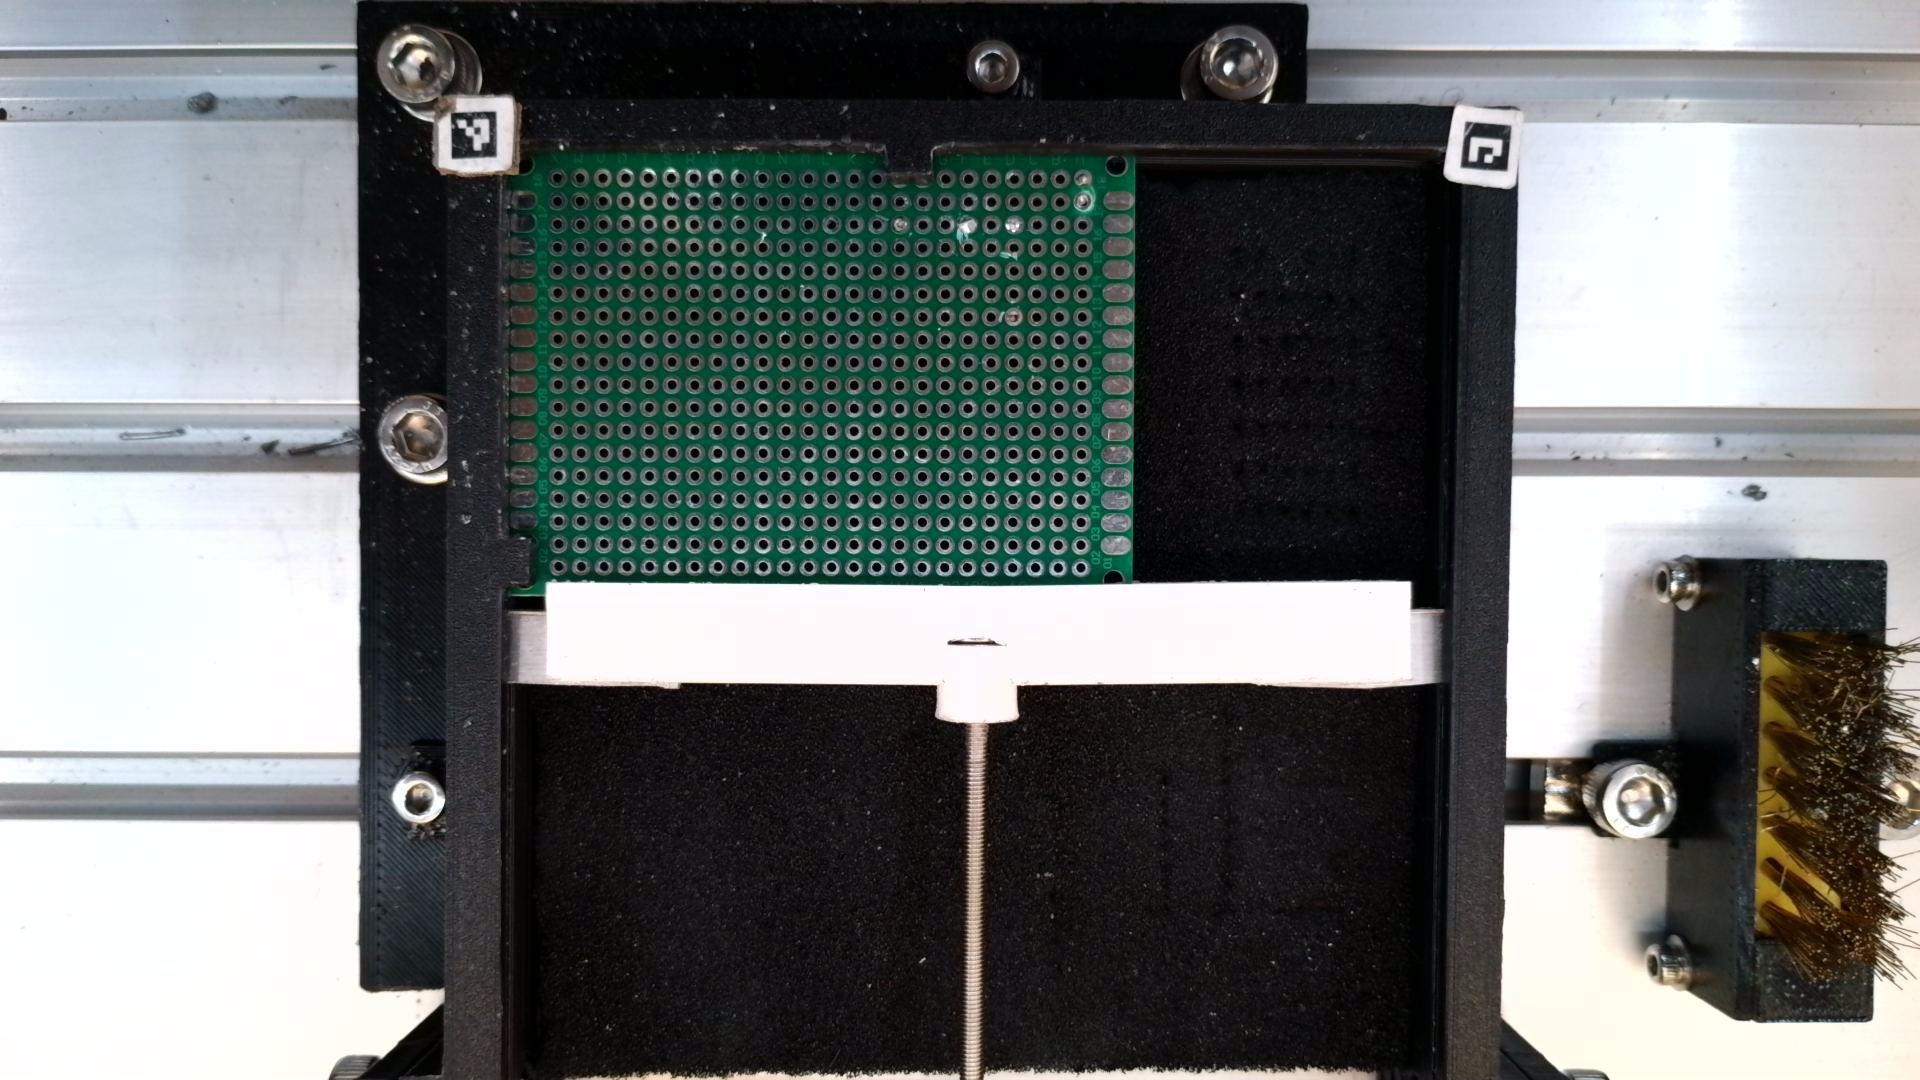
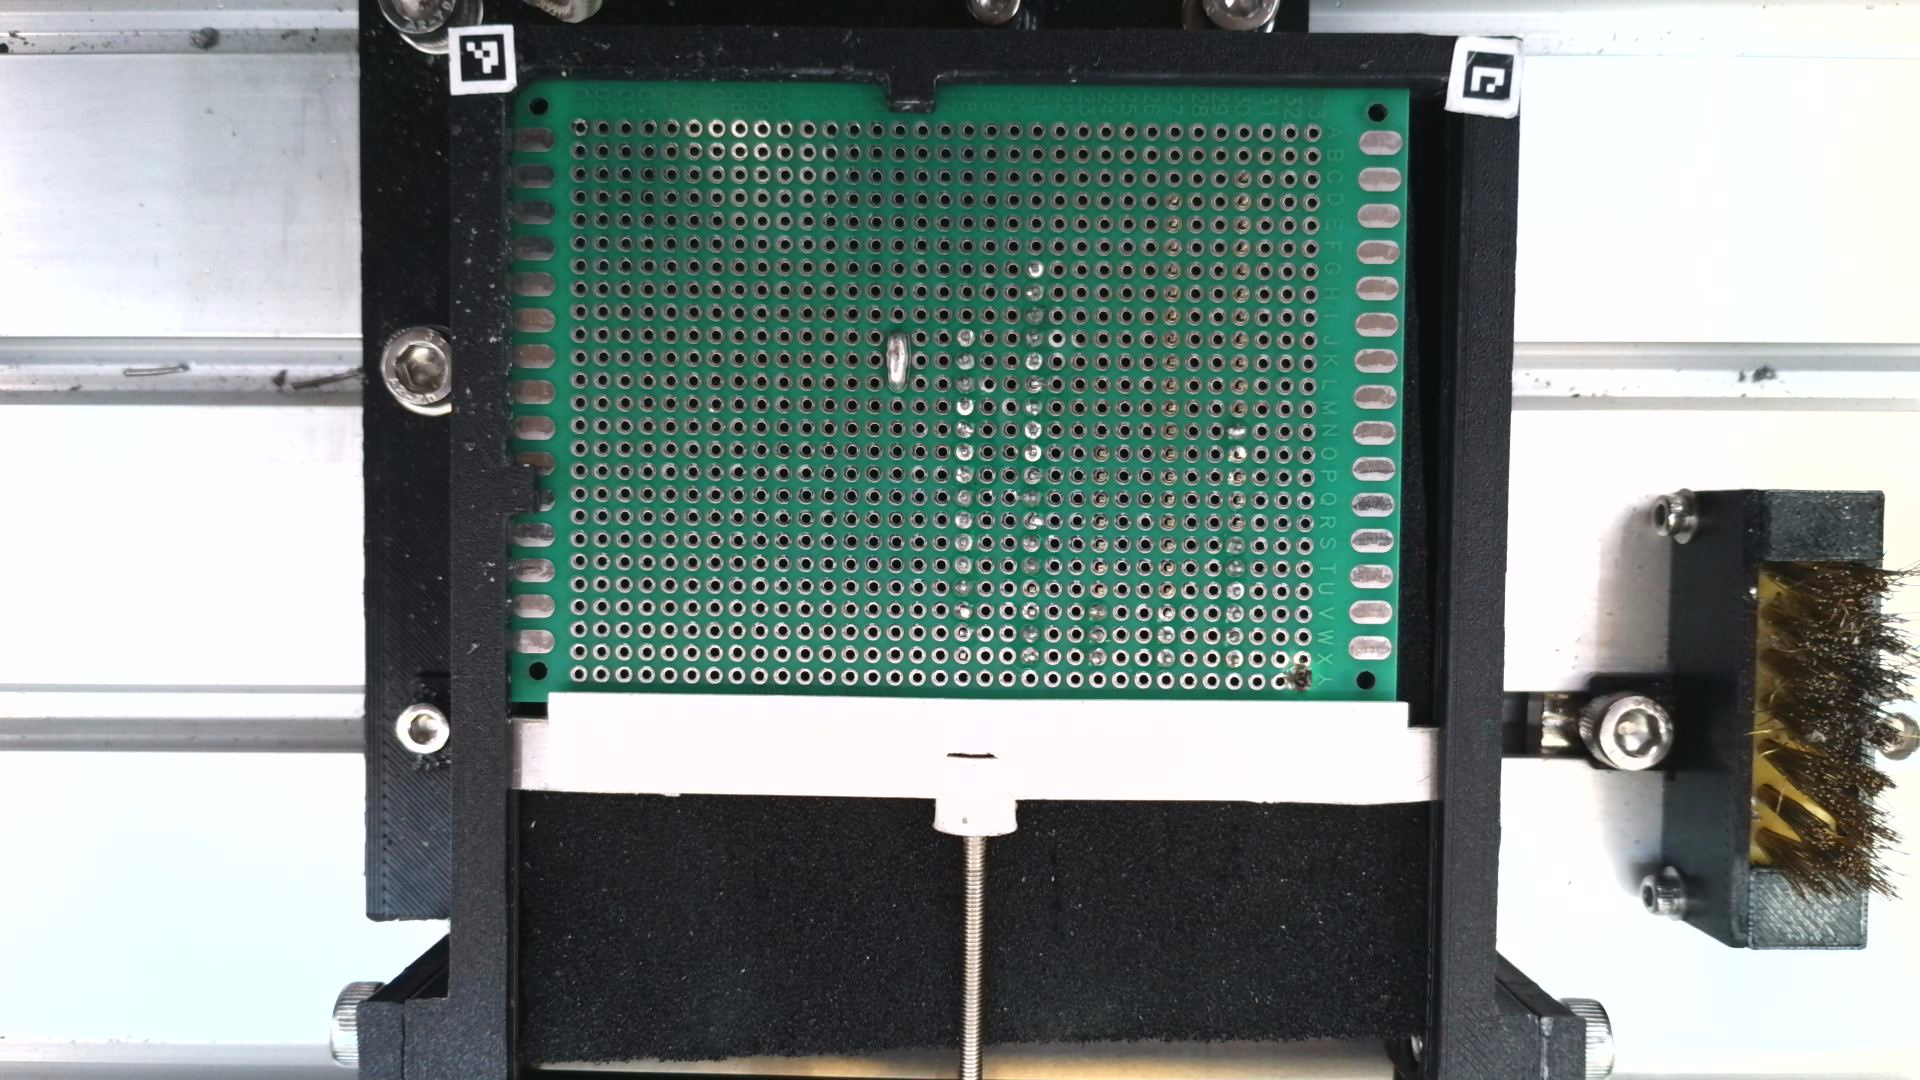
changed tip clean x coord

diff --git a/core/grbl_controller.py b/core/grbl_controller.py
@@ -399,7 +399,7 @@ class GRBLController:
         # move to cleaning station
         commands.append(self.writer.positioning("absolute"))
         commands.append(self.writer.move_up_down(self.height))
-        commands.append(self.writer.rapid_positioning(145, -55.0))
+        commands.append(self.writer.rapid_positioning(140, -55.0))
         commands.append(self.writer.positioning("relative"))
         commands.append(self.writer.move_up_down(-8))
 

diff --git a/ui/tabs/edit_tab_widgets/image_selector.py b/ui/tabs/edit_tab_widgets/image_selector.py
@@ -33,7 +33,7 @@ class TakeImageThread(QThread):
         self.capture_requested = False
 
     def run(self):
-        cap = cv2.VideoCapture(0, cv2.CAP_DSHOW)
+        cap = cv2.VideoCapture(1, cv2.CAP_DSHOW)
         cap.set(cv2.CAP_PROP_FOURCC, cv2.VideoWriter_fourcc(*"MJPG"))
         cap.set(cv2.CAP_PROP_FRAME_WIDTH, 1920)
         cap.set(cv2.CAP_PROP_FRAME_HEIGHT, 1080)
